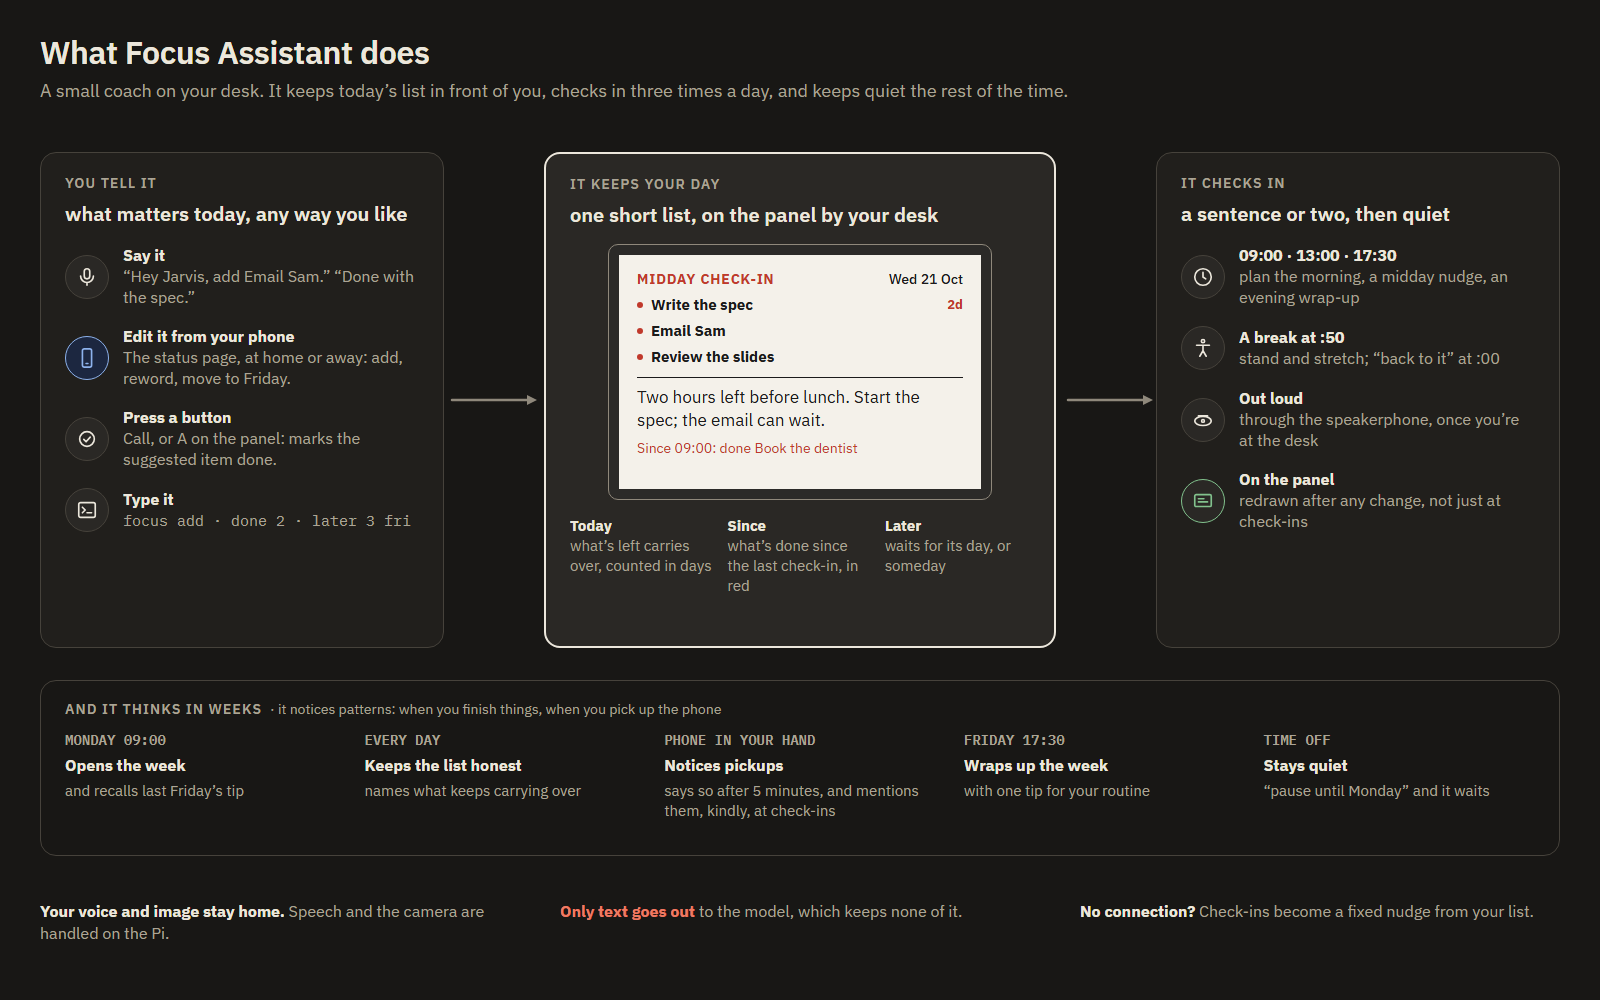
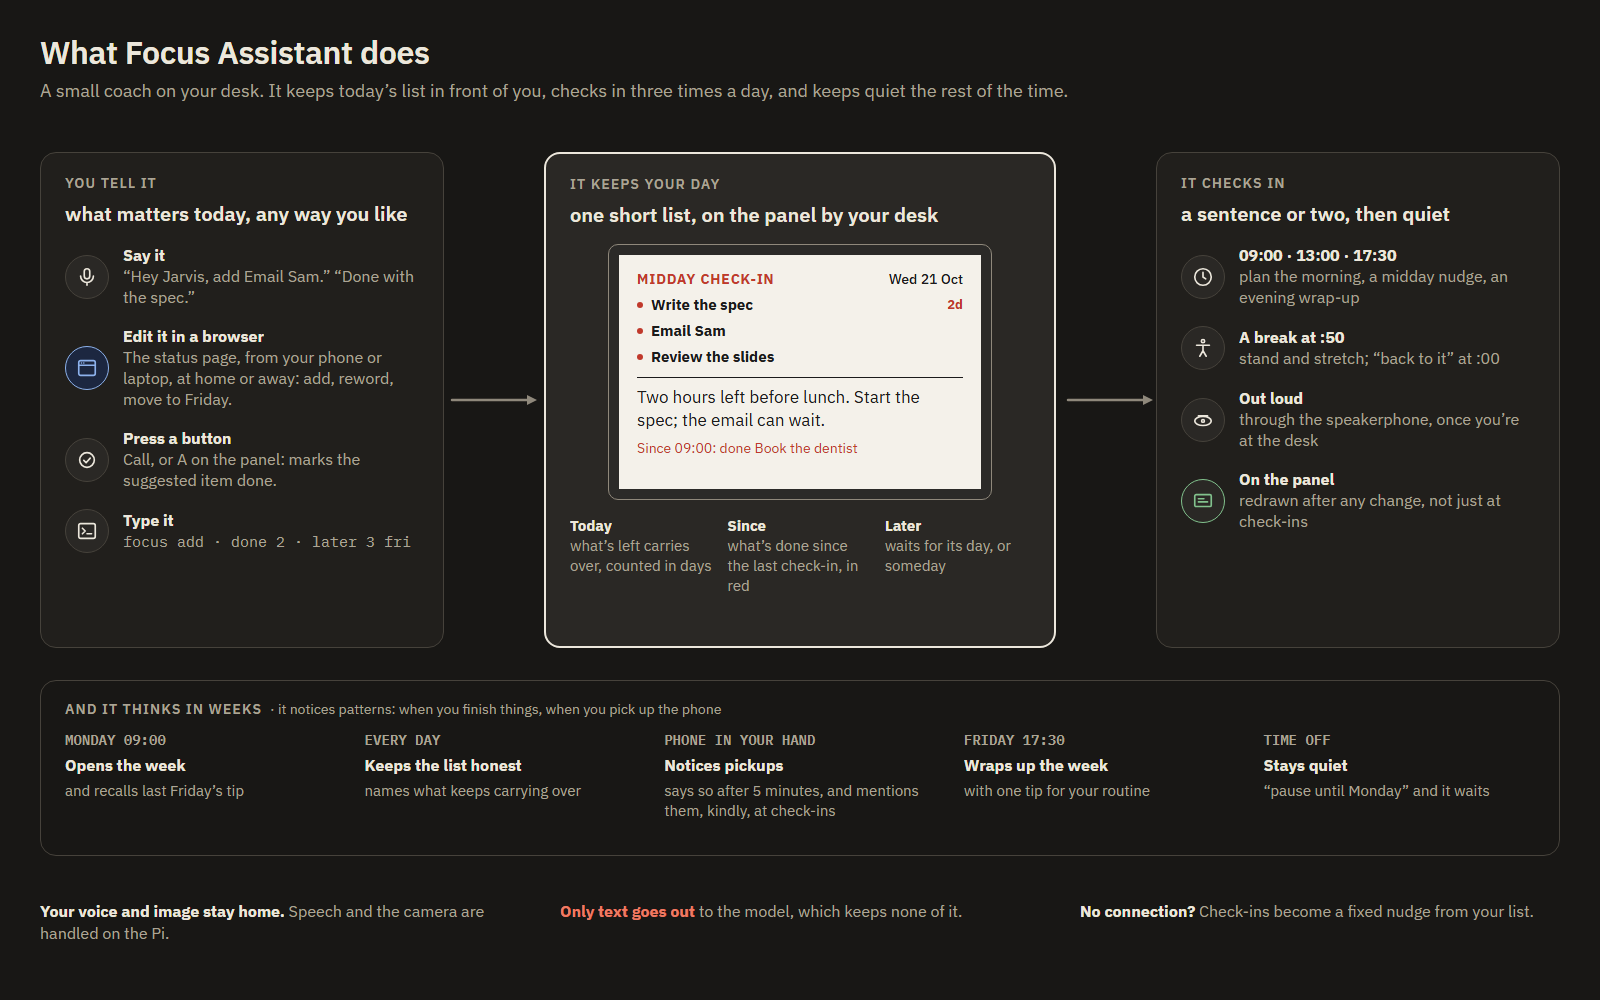
Say the list can be edited in any browser, not just the phone

Changed region(s): [[0.0312, 0.31, 0.25, 0.558], [0.1875, 0.496, 0.2188, 0.558]]

diff --git a/docs/diagrams/what-it-does.html b/docs/diagrams/what-it-does.html
@@ -46,7 +46,7 @@ a{color:#1f4f9c}a:hover{color:#191815}
 <div class="h">YOU TELL IT</div>
 <div style="font-size: 20px; line-height: 26px; font-weight: 600; margin-top: -8px">what matters today, any way you like</div>
 <div class="row"><span class="ic"><svg width="22" height="22" viewBox="0 0 24 24" fill="none" stroke="currentColor" stroke-width="1.8" stroke-linecap="round" stroke-linejoin="round" aria-hidden="true"><rect x="9" y="3" width="6" height="11" rx="3"></rect><path d="M5 11a7 7 0 0 0 14 0M12 18v3"></path></svg></span><span><b>Say it</b><br><span class="s">“Hey Jarvis, add Email Sam.” “Done with the spec.”</span></span></div>
-<div class="row"><span class="ic ph"><svg width="22" height="22" viewBox="0 0 24 24" fill="none" stroke="currentColor" stroke-width="1.8" stroke-linecap="round" stroke-linejoin="round" aria-hidden="true"><rect x="7" y="2" width="10" height="20" rx="2"></rect><path d="M11 18h2"></path></svg></span><span><b>Edit it from your phone</b><br><span class="s">The status page, at home or away: add, reword, move to Friday.</span></span></div>
+<div class="row"><span class="ic ph"><svg width="22" height="22" viewBox="0 0 24 24" fill="none" stroke="currentColor" stroke-width="1.8" stroke-linecap="round" stroke-linejoin="round" aria-hidden="true"><rect x="3" y="4" width="18" height="16" rx="2"></rect><path d="M3 9h18"></path><path d="M6 6.5h.01M8.5 6.5h.01"></path></svg></span><span><b>Edit it in a browser</b><br><span class="s">The status page, from your phone or laptop, at home or away: add, reword, move to Friday.</span></span></div>
 <div class="row"><span class="ic"><svg width="22" height="22" viewBox="0 0 24 24" fill="none" stroke="currentColor" stroke-width="1.8" stroke-linecap="round" stroke-linejoin="round" aria-hidden="true"><circle cx="12" cy="12" r="8"></circle><path d="M8.5 12.5l2.5 2.5 4.5-5"></path></svg></span><span><b>Press a button</b><br><span class="s">Call, or A on the panel: marks the suggested item done.</span></span></div>
 <div class="row"><span class="ic"><svg width="22" height="22" viewBox="0 0 24 24" fill="none" stroke="currentColor" stroke-width="1.8" stroke-linecap="round" stroke-linejoin="round" aria-hidden="true"><rect x="3" y="4" width="18" height="16" rx="2"></rect><path d="M7 9l3 3-3 3M12 15h5"></path></svg></span><span><b>Type it</b><br><span class="s mono" style="font-size: 15px">focus add · done 2 · later 3 fri</span></span></div>
 </div>
